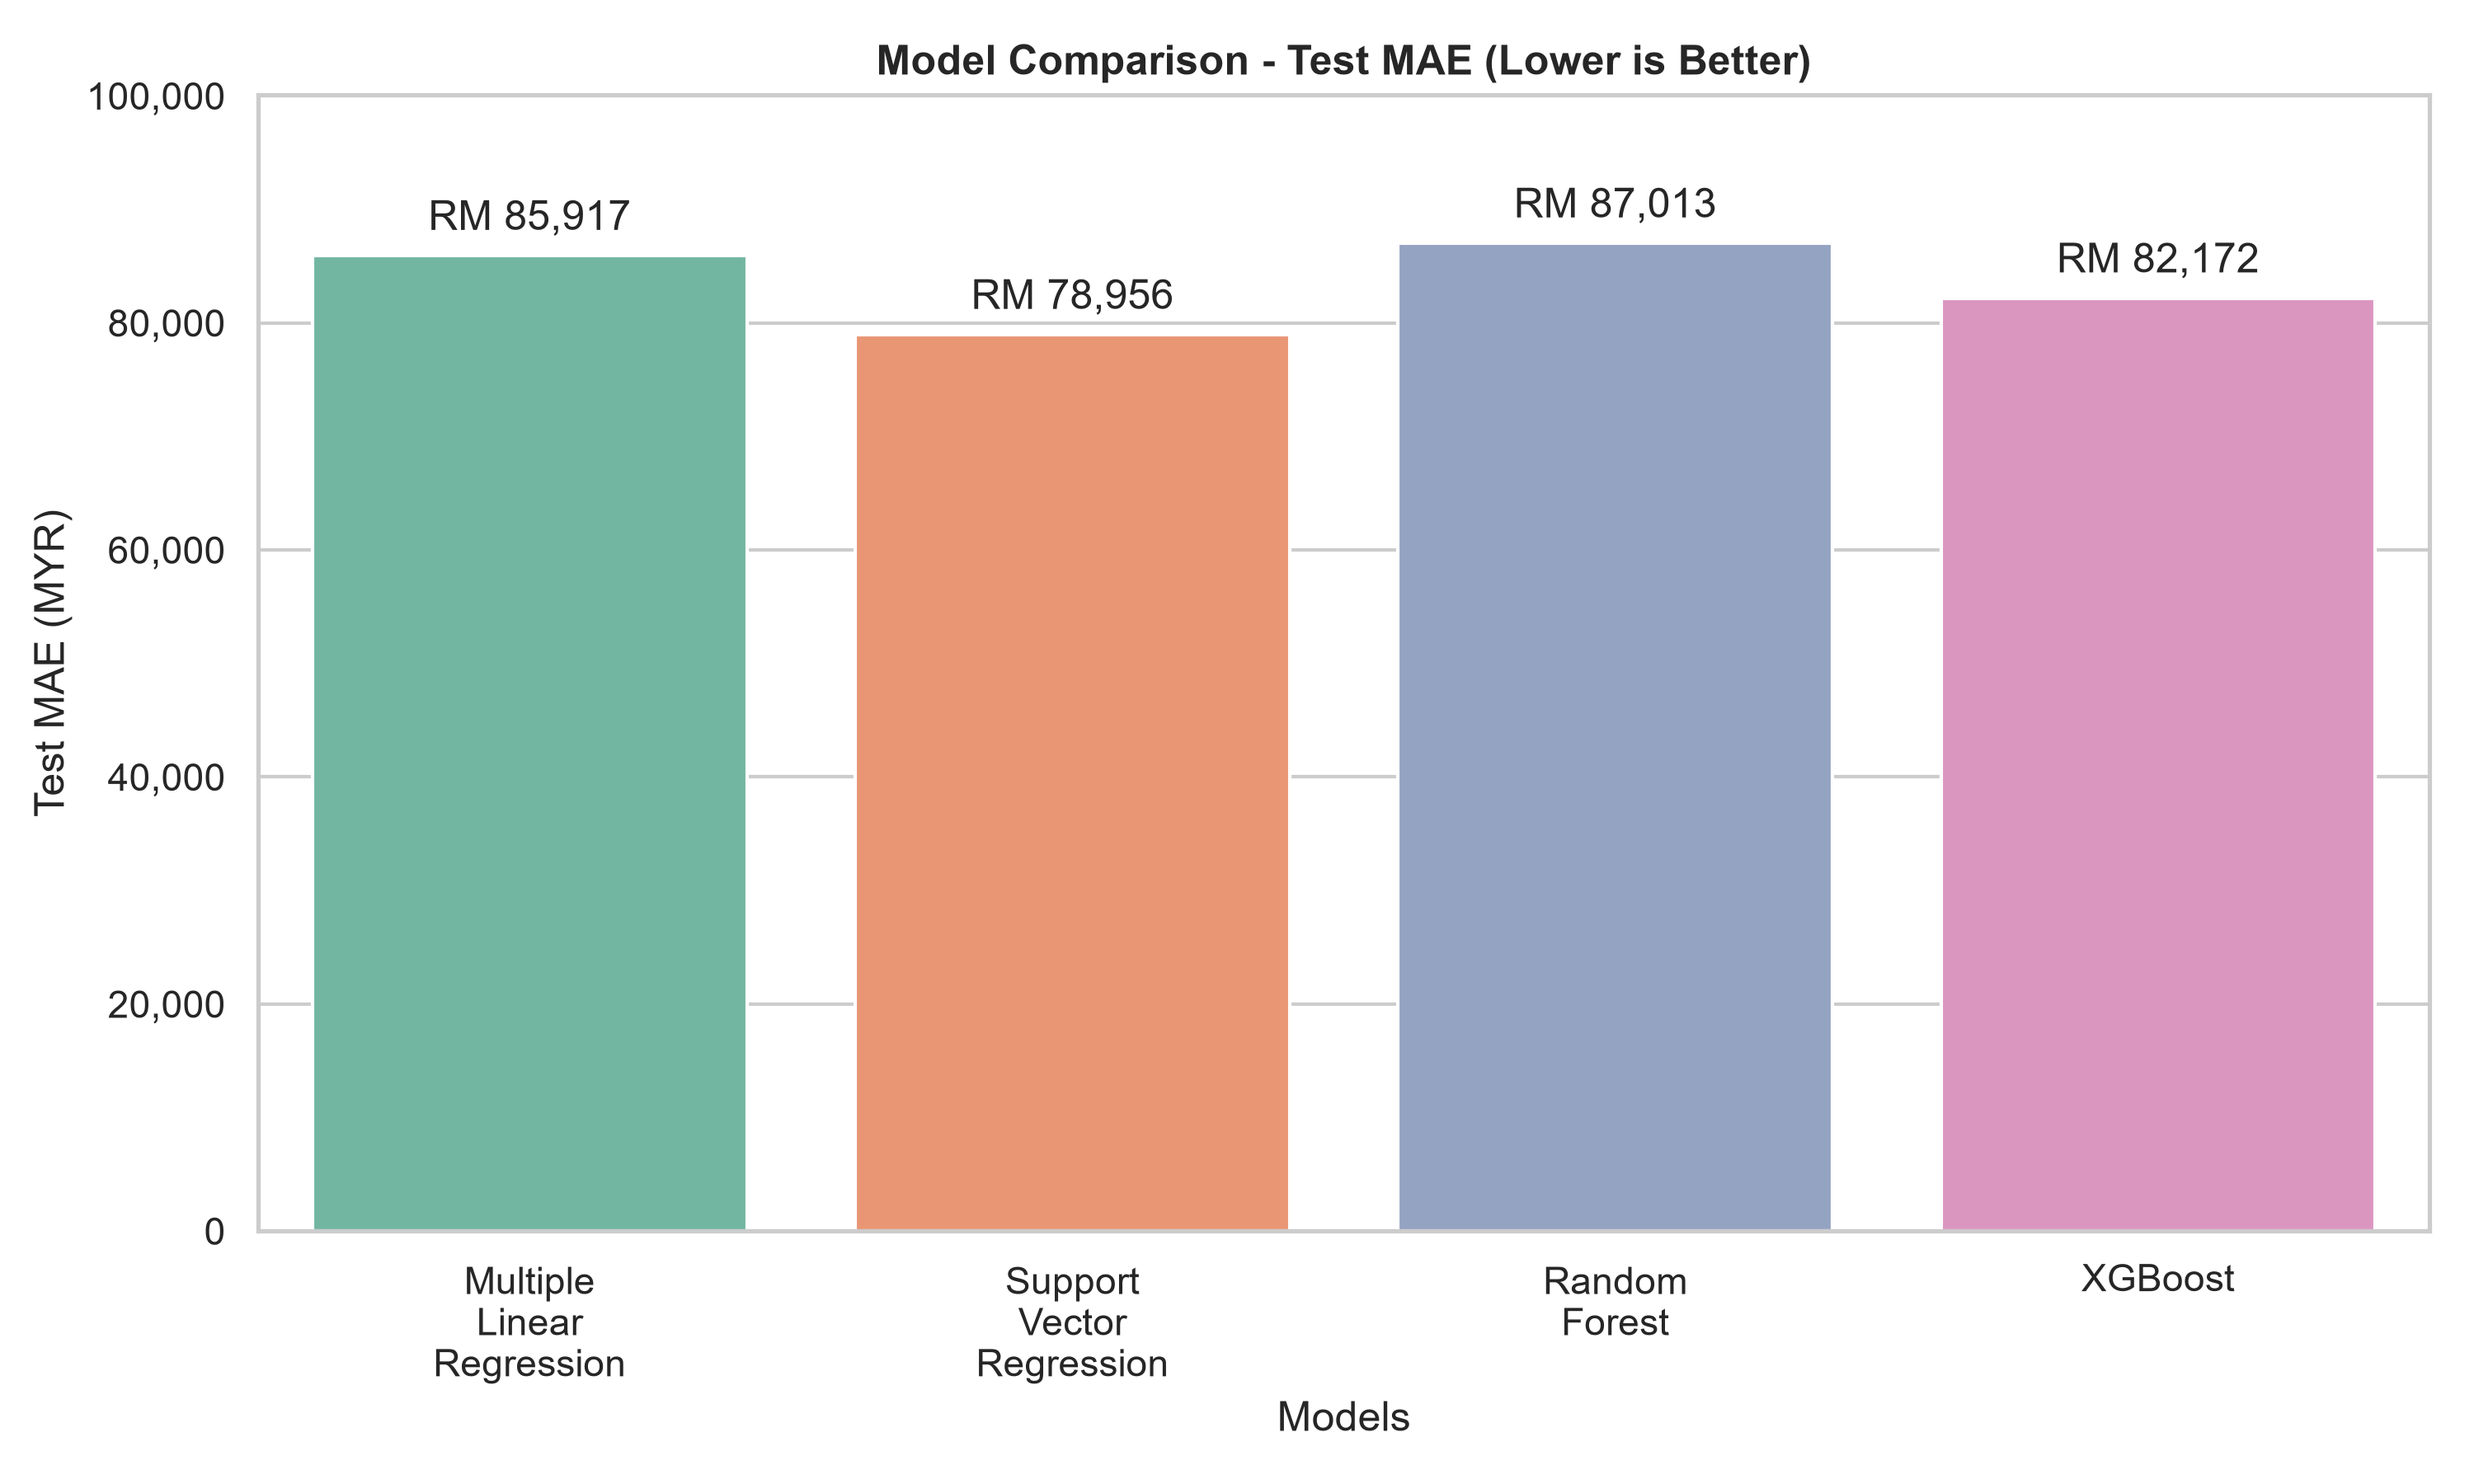
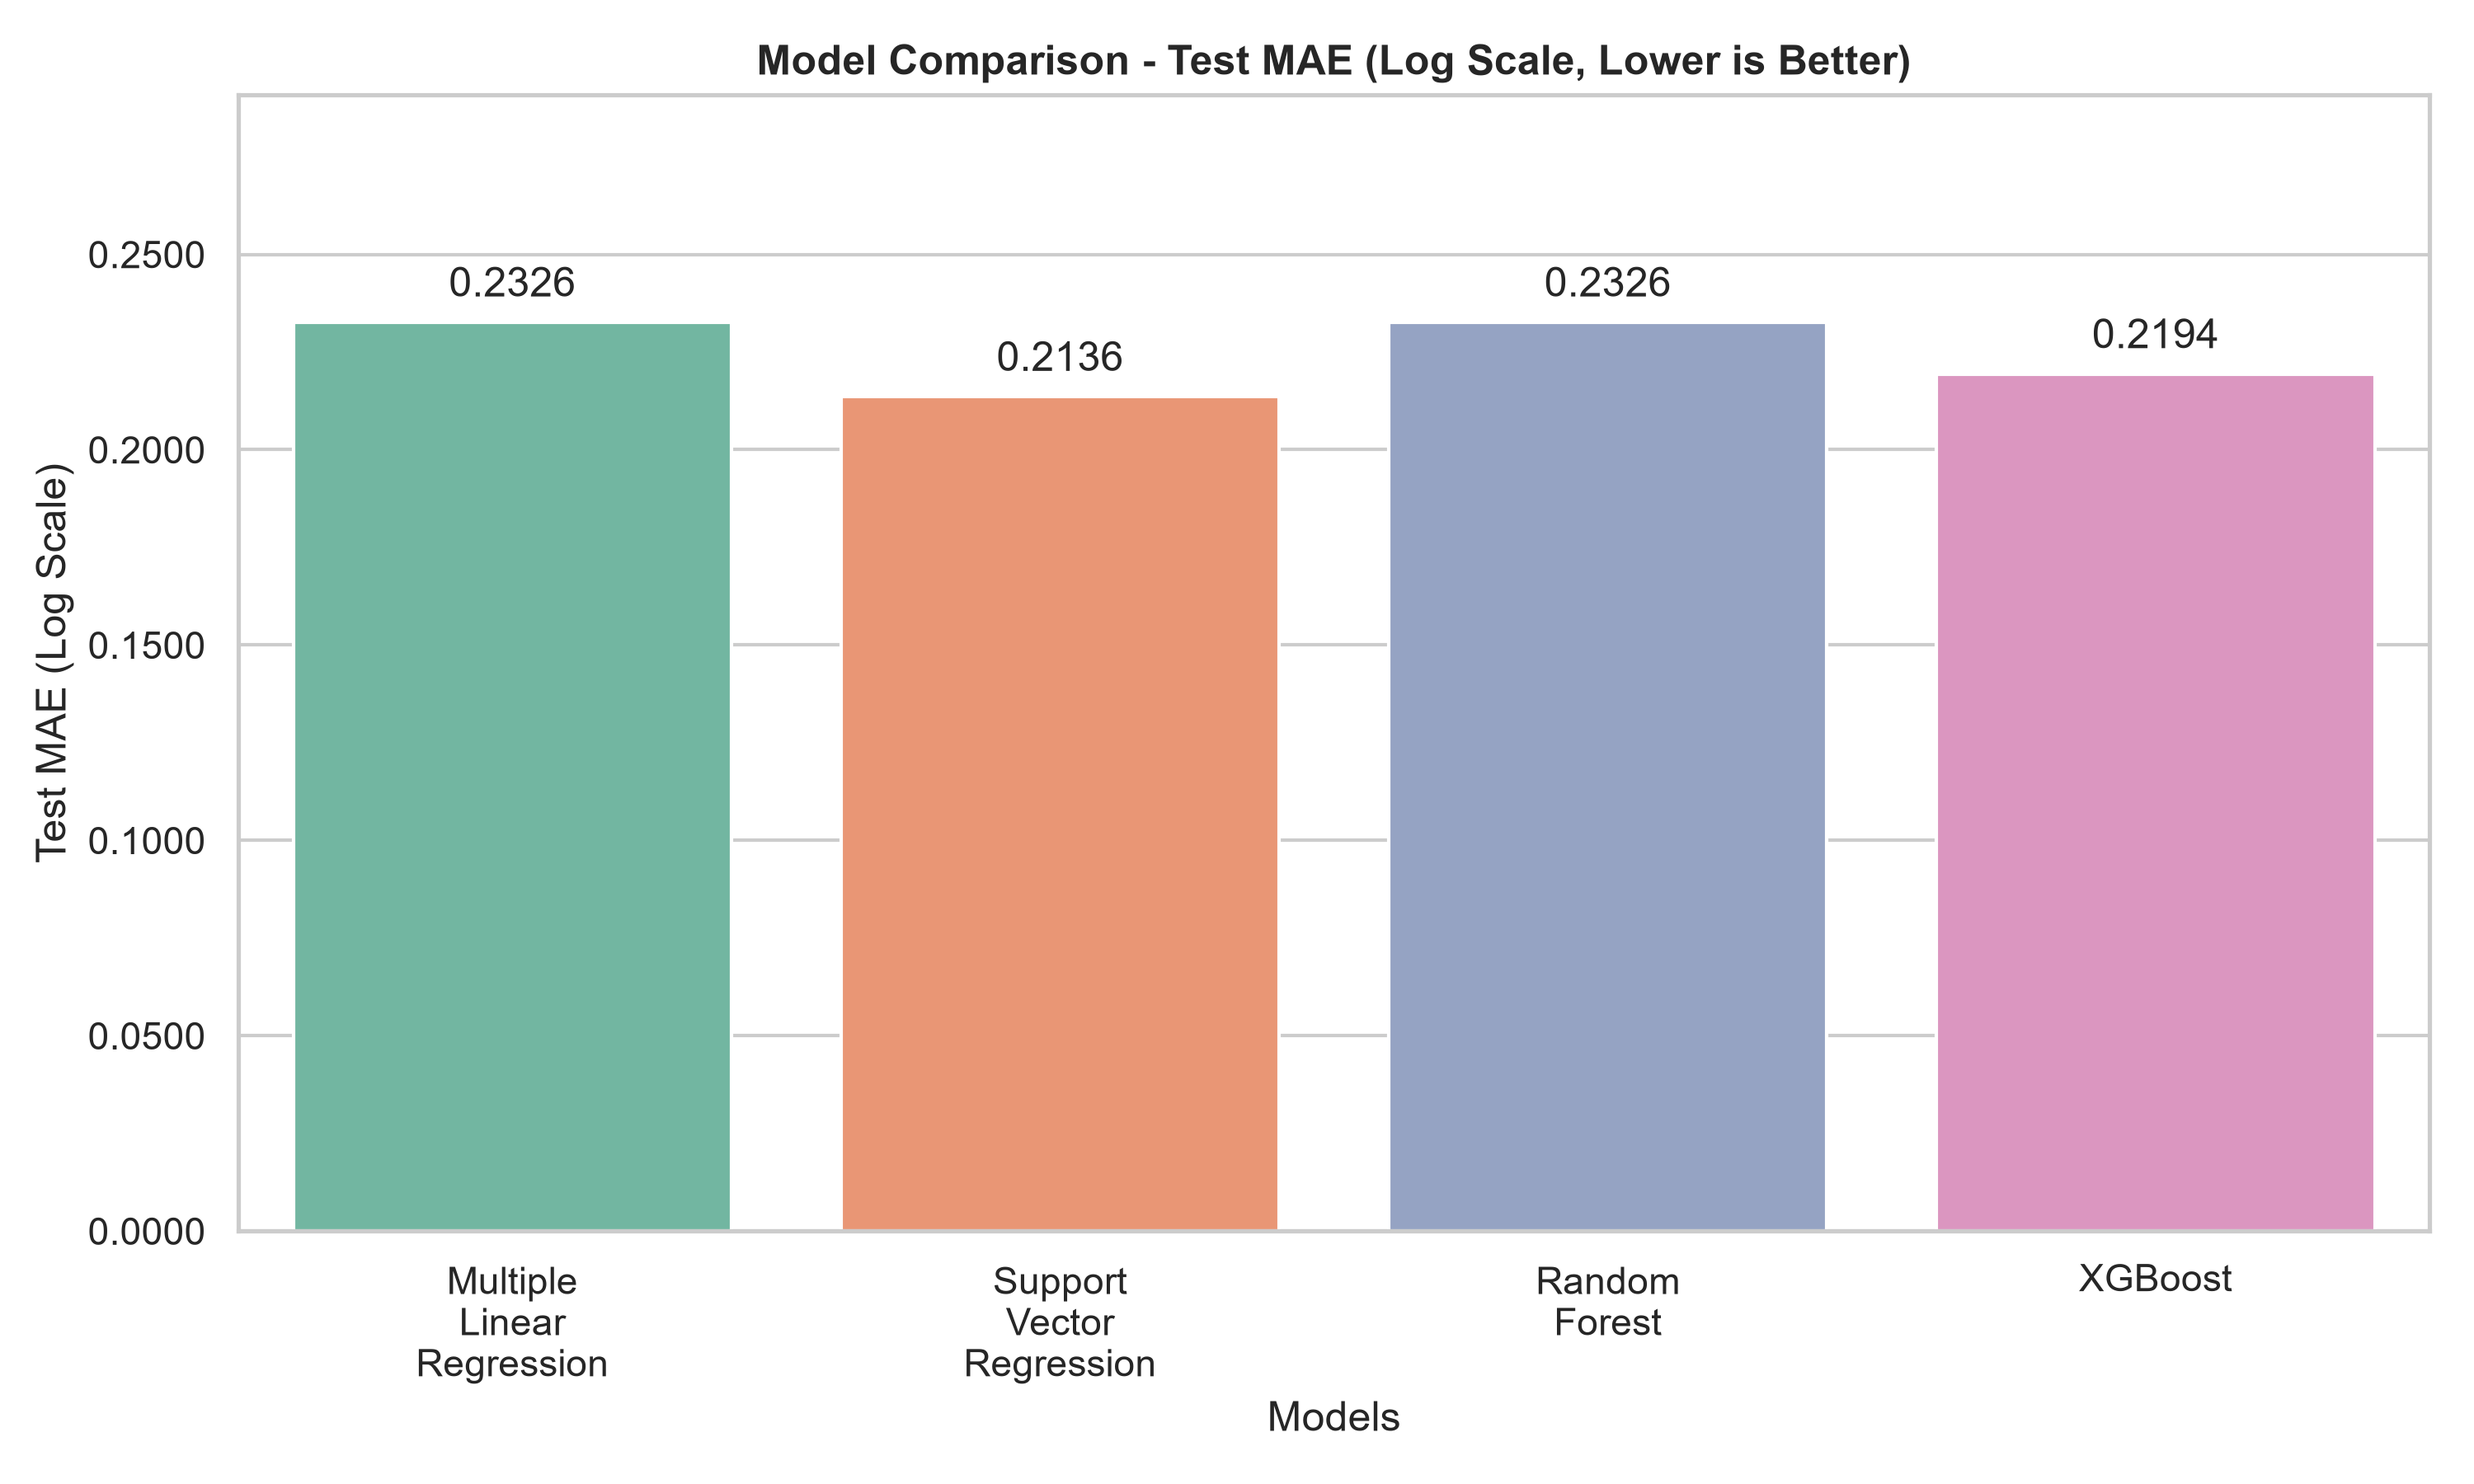
fix the bug when int() in the formatter

diff --git a/src/model_visual.py b/src/model_visual.py
@@ -187,25 +187,26 @@ def main():
                 ax=ax,
             )
             ax.set_xlabel("Models")
-            ax.set_ylabel("Test MAE (RM)")
+            ax.set_ylabel("Test MAE (Log Scale)")
             ax.set_title(
-                "Model Comparison - Test MAE (Lower is Better)",
+                "Model Comparison - Test MAE (Log Scale, Lower is Better)",
                 fontweight="bold",
             )
             ax.yaxis.set_major_formatter(
-                ticker.FuncFormatter(lambda x, p: format(int(x), ","))
+                ticker.FuncFormatter(lambda x, p: f"{x:.4f}")
             )
             for p in ax.patches:
+                height = p.get_height()
                 ax.annotate(
-                    f"RM {p.get_height():,.0f}",
-                    (p.get_x() + p.get_width() / 2.0, p.get_height()),
+                    f"{height:.4f}",
+                    (p.get_x() + p.get_width() / 2.0, height),
                     ha="center",
                     va="bottom",
                     xytext=(0, 5),
                     textcoords="offset points",
                 )
             ax.tick_params(axis="x", rotation=0)
-            ax.set_ylim(0, df_metrics["test_mae"].max() * 1.15)
+            ax.set_ylim(0, df_metrics["test_mae"].max() * 1.25)
             plt.tight_layout()
             plt.savefig(output_dir / "model_comparison_test_mae.png", dpi=300)
             plt.close()
@@ -223,25 +224,26 @@ def main():
                 ax=ax,
             )
             ax.set_xlabel("Models")
-            ax.set_ylabel("Test RMSE (RM)")
+            ax.set_ylabel("Test RMSE (Log Scale)")
             ax.set_title(
-                "Model Comparison - Test RMSE (Lower is Better)",
+                "Model Comparison - Test RMSE (Log Scale, Lower is Better)",
                 fontweight="bold",
             )
             ax.yaxis.set_major_formatter(
-                ticker.FuncFormatter(lambda x, p: format(int(x), ","))
+                ticker.FuncFormatter(lambda x, p: f"{x:.4f}")
             )
             for p in ax.patches:
+                height = p.get_height()
                 ax.annotate(
-                    f"RM {p.get_height():,.0f}",
-                    (p.get_x() + p.get_width() / 2.0, p.get_height()),
+                    f"{height:.4f}",
+                    (p.get_x() + p.get_width() / 2.0, height),
                     ha="center",
                     va="bottom",
                     xytext=(0, 5),
                     textcoords="offset points",
                 )
             ax.tick_params(axis="x", rotation=0)
-            ax.set_ylim(0, df_metrics["test_rmse"].max() * 1.15)
+            ax.set_ylim(0, df_metrics["test_rmse"].max() * 1.25)
             plt.tight_layout()
             plt.savefig(output_dir / "model_comparison_test_rmse.png", dpi=300)
             plt.close()
